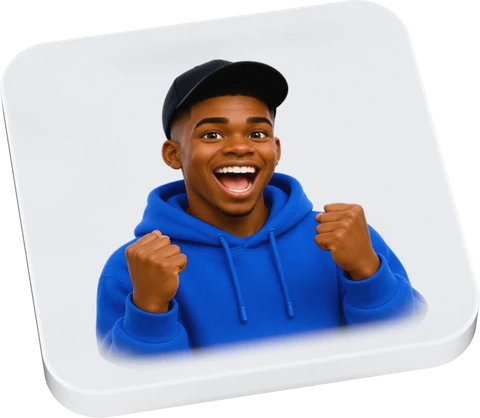
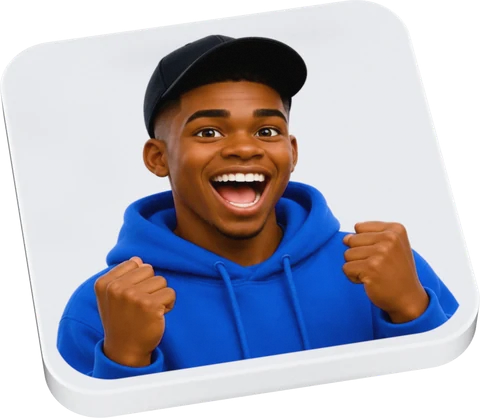
Header solid white on the blue; grain on the accent water; floating tiles' characters 30% larger and seated on the edge, unfaded

diff --git a/tools/tiles/tile-boot.js b/tools/tiles/tile-boot.js
@@ -15,7 +15,7 @@ import { tileGeometry } from '/src/tiles/geometry.js';
 
 const RAW = await fetch('/tiles/floor-params.json').then((r) => r.json());
 const opt = Object.assign({ name: '03-braids.webp', ai: false, transparent: true, elev: null, mask: false, straight: true, az: 0, bg: null, exposure: null }, window.PARAMS);
-const P = Object.assign({ W: 1920, H: 1080, assetBase: '/tiles' }, RAW, RAW.states?.default ?? {}, { chars: [opt.name], charActive: null }, opt.transparent ? { filmGrain: 0 } : {});
+const P = Object.assign({ W: 1920, H: 1080, assetBase: '/tiles' }, RAW, RAW.states?.default ?? {}, { chars: [opt.name], charActive: null, charEdgeSoft: opt.straight ? 0.004 : RAW.charEdgeSoft }, opt.transparent ? { filmGrain: 0 } : {});
 
 const renderer = new THREE.WebGLRenderer({ antialias: true, preserveDrawingBuffer: true, alpha: opt.transparent });
 renderer.toneMapping = THREE.NeutralToneMapping;
@@ -44,12 +44,15 @@ ch.setScan(opt.ai ? 1 : 0);
 // the camera edge (the floor lays it corner to corner for its diamond view).
 // The floor stretches the bust along the view to undo its 40 degree tilt; this gentler view needs less,
 // and the bust is sized so the character fills about 70% of the tile, as on the floor.
-const TILE_FILL = 0.88; // bust picture width in tile widths: its figure spans ~80% of the picture, so ~70% of the tile
+const TILE_FILL = 0.88 * 1.3; // bust picture width in tile widths (the floor's ~70% figure, scaled up 30%)
 const undoTilt = Math.sin(THREE.MathUtils.degToRad(P.elev)) / Math.sin(THREE.MathUtils.degToRad(opt.elev ?? 62));
 if (opt.straight) ch.meshes.forEach((m) => {
   m.rotation.z = 0;
-  m.position.set(0, m.position.y, P.charForward);
-  m.scale.set(TILE_FILL, TILE_FILL * P.charStretch * undoTilt, 1);
+  const tall = TILE_FILL * P.charStretch * undoTilt;
+  // Seated on the near edge, not faded into the glass: the picture's own soft bottom (its last ~20%) is
+  // pushed past the tile's edge, which clips it with a hard line (charEdgeSoft), so the figure meets it.
+  m.position.set(0, m.position.y, P.tile / 2 - tall * 0.3);
+  m.scale.set(TILE_FILL, tall, 1);
 });
 if (opt.mask) {
   ch.meshes.forEach((m) => { m.visible = false; });

diff --git a/src/components/website/AccentWave.tsx b/src/components/website/AccentWave.tsx
@@ -13,6 +13,7 @@ import { WAVE_VH } from "./ScrubLine";
 const ACCENT = [26, 109, 255];
 const ARC = 90; // how much higher the middle of the edge is than its ends, px
 const BAND = 480; // depth of the halftone above the solid colour, px
+const GRAIN = 0.07; // noise strength on the blue
 const PITCH = 6; // halftone grid, px; a dot of radius PITCH / 2 touches its neighbours
 
 export function AccentWave() {
@@ -29,6 +30,21 @@ export function AccentWave() {
       w = 0,
       h = 0;
     const fill = `rgb(${ACCENT.join(",")})`;
+    // Film-grain noise laid over the blue (dots included): one tile of random light and dark pixels,
+    // repeated, at GRAIN strength.
+    const grainTile = document.createElement("canvas");
+    grainTile.width = grainTile.height = 160;
+    const gctx = grainTile.getContext("2d");
+    if (gctx) {
+      const img = gctx.createImageData(160, 160);
+      for (let k = 0; k < img.data.length; k += 4) {
+        const v = Math.random() * 255;
+        img.data[k] = img.data[k + 1] = img.data[k + 2] = v;
+        img.data[k + 3] = 255;
+      }
+      gctx.putImageData(img, 0, 0);
+    }
+    const grain = ctx.createPattern(grainTile, "repeat");
 
     const announce = (on: boolean) => {
       if (on === filled) return;
@@ -77,6 +93,15 @@ export function AccentWave() {
             );
             ctx.fill();
           }
+        }
+        // the grain, only where the blue already is
+        if (grain) {
+          ctx.globalCompositeOperation = "source-atop";
+          ctx.globalAlpha = GRAIN;
+          ctx.fillStyle = grain;
+          ctx.fillRect(0, 0, w, h);
+          ctx.globalCompositeOperation = "source-over";
+          ctx.fillStyle = fill;
         }
         ctx.globalAlpha = 1;
       }

diff --git a/src/components/website/Header.tsx b/src/components/website/Header.tsx
@@ -14,6 +14,14 @@ const LINKS = [
 
 export function Header() {
   const [scrolled, setScrolled] = useState(false);
+  // solid white once the accent water has filled the view (AccentWave.tsx), so it stands clear of the blue
+  const [onBlue, setOnBlue] = useState(false);
+  useEffect(() => {
+    const on = (e: Event) =>
+      setOnBlue((e as CustomEvent<{ filled: boolean }>).detail.filled);
+    window.addEventListener("accentwave", on);
+    return () => window.removeEventListener("accentwave", on);
+  }, []);
   useEffect(() => {
     const onScroll = () => setScrolled(window.scrollY > 4);
     window.addEventListener("scroll", onScroll, { passive: true });
@@ -23,7 +31,8 @@ export function Header() {
   return (
     <nav
       className={
-        "fixed top-0 left-0 right-0 z-40 px-6 py-5 bg-[rgb(var(--page-rgb)/0.75)] backdrop-blur-md border-b transition-colors duration-300 " +
+        "fixed top-0 left-0 right-0 z-40 px-6 py-5 backdrop-blur-md border-b transition-colors duration-300 " +
+        (onBlue ? "bg-white " : "bg-[rgb(var(--page-rgb)/0.75)] ") +
         (scrolled ? "border-slate-300/80" : "border-transparent")
       }
     >

diff --git a/src/components/website/FloatingBadges.tsx b/src/components/website/FloatingBadges.tsx
@@ -86,7 +86,7 @@ const BADGES: Badge[] = [
 const DRIFT = 22; // px a depth-1 badge moves with the cursor at the edge of the screen
 const SWEEP_S = 1;
 // bump when the tile renders change, so browsers fetch the new ones instead of their cached copies
-const TILES_V = 2;
+const TILES_V = 3;
 const BAND = 34; // band width, % of the tile
 
 export function FloatingBadges() {
